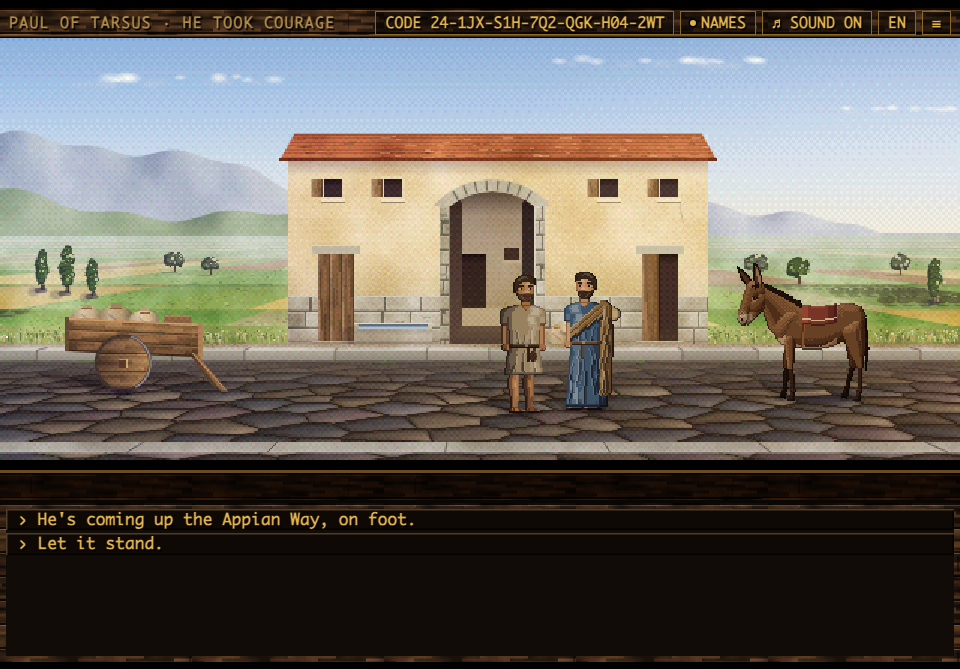
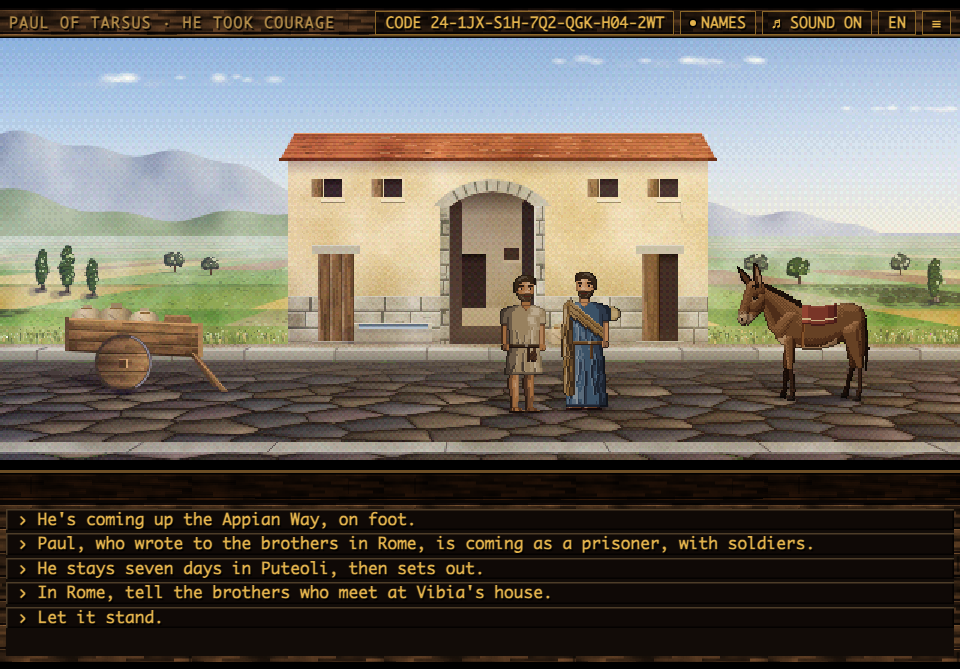
Chapter Twenty-Four: the news is said back whole, and the player picks the part to say again
The receiver says all four parts back, then one choice: let it all stand, or one part to say again. A part
that was right gets "That's what I said" and leaves the choice; letting the slip stand makes the giver say
"Wait. One thing again." and the choice comes back without letting it stand. Before, every choice led to
the same end, because the giver set the slip right by himself.

Changed region(s): [[0.0, 0.8072, 0.875, 0.9567], [0.5625, 0.4484, 0.6562, 0.5979]]

diff --git a/tools/playtest-harness.html b/tools/playtest-harness.html
@@ -6527,7 +6527,7 @@
      once, with the story's flags set for it, and say its safe-point code (CODE): pscroll24 · pquay24 · pcourt24 · pcapua24 · pcanal24 (the
      treasure's point) · pdawn24 · pstones24 · prome24 · pboard24 · phills24 · pmarsh24 · pmarsh24b · pmeet24 · ptaverns24 · pfar24 · pcapena24
      · pcamp24 · plane24 · pflat24 · pstreet24 · pgarret24 · psmall24; and three that go one step further, for the pictures of the
-     chapter's page: prelay24 (the carter has given the message, the trader has said its first two parts back, and the choice stands),
+     chapter's page: prelay24 (the carter has given the message, the trader has said all four parts back, and the choice stands),
      ppegs24 (four pegs on the board, Vibia's in hand) and pcall24 (the road in the hills, the soldier's call standing for a long pause).
      The timed walk, driven by the beat's exposed phase: beatwalk24 (a hit,
      a miss with no line, the call after three, the carry after six, a stretch walked to its stone) and phonewalk24 (the same tapped on a phone
@@ -6563,8 +6563,8 @@
        the soldier, at the game's pace, for a long pause (a step that takes no time) */
     const choices24=async()=>{for(let i=0;i<600&&!$('#choices').classList.contains('on');i++){if(G.skip)G.skip();await wait(40)}await wait(200)};
     if(stop==='prelay24'){const TR=ACT.trader24;verb('talk');clickView(TR.x,TR.y-10,TR.hs);await choices24();
-      const b=[...document.querySelectorAll('#choices button')].find(x=>x.dataset.src==='let_it_stand');if(!b)throw new Error('no choice let_it_stand');b.click();
-      await wait(300);await choices24();ok($('#choices').classList.contains('on')&&[...document.querySelectorAll('#choices button')].some(x=>x.dataset.src===CHAP[24].msg[1]),'the trader has said the road back, and the choice stands: let it stand, or say it again')}
+      const bs=[...document.querySelectorAll('#choices button')].map(x=>x.dataset.src);
+      ok(bs.length===5&&bs.includes('let_it_stand')&&CHAP[24].msg.every(k=>bs.includes(k)),'the trader has said all four parts back, and the choice stands: let it all stand, or say one part again')}
     if(stop==='ppegs24'){G.tok24={sextus24:'M',mikon24:'M',postumus24:'T',thallos24:'T'};G.sel24='vibia24';await wait(300)}
     if(stop==='pcall24'){for(let i=0;i<300&&!G.beat;i++)await wait(20);const k=SHARED.beat.start(Object.assign({sticky:true,room:'hills24',sound:false},CHAP[24].beat,{pause:2600,at:.1,need:0,phase:.11}));
       k.st24='s1';k.misses=3;k.help=1;for(let i=0;i<200&&!k.calling();i++)await wait(20);ok(k.calling(),'the soldier calls the step while his foot is up')}
@@ -6658,21 +6658,24 @@
   ok(ROADS24.join()==='malta-syracuse,syracuse-rhegium,rhegium-puteoli','the sea on the map: Malta, Syracuse, Rhegium, Puteoli');
   halt('court24');
   await hints('hint_the_news_for_rome_1','hint_the_news_for_rome_2','at Puteoli');
-  /* the news goes ahead: Luke to the carter. A harmless change set right: "That's what I said"; the day set right */
-  heard.length=0;talkTo(CA);{const o=await asked();ok(MSG.every(k=>said(k))&&said('let_me_say_it_back')&&said(H[0].say[0])&&o.length===2&&o.includes('let_it_stand')&&o.includes(MSG[0]),
-      'Luke gives the four parts; the carter says the first back in his own words; let it stand, or say it again (every correction on offer is the part itself, and true)')}
-  await line(MSG[0]);ok(said('thats_what_i_said'),'a harmless change set right: that\'s what I said');
-  await line('let_it_stand');ok(said(H[0].say[2]),'the carter: seven weeks in Puteoli');await line('let_it_stand');await line('let_it_stand');
+  /* the news goes ahead: Luke to the carter. A harmless change set right: "That's what I said"; the slip let stand: "Wait. One thing
+     again.", and the choice comes back without "let it stand"; the day set right */
+  heard.length=0;talkTo(CA);{const o=await asked();ok(MSG.every(k=>said(k))&&said('let_me_say_it_back')&&H[0].say.every(k=>said(k))&&o.length===5&&o.includes('let_it_stand')&&MSG.every(k=>o.includes(k)),
+      'Luke gives the four parts; the carter says all four back in his own words (seven weeks in Puteoli); then one choice: let it all stand, or say one part again (every correction on offer is the part itself, and true)')}
+  await line(MSG[0]);{const o=await asked();ok(said('thats_what_i_said')&&o.length===4&&!o.includes(MSG[0])&&o.includes('let_it_stand'),'a harmless change set right: that\'s what I said, and that part leaves the choice')}
+  heard.length=0;await line('let_it_stand');{const o=await asked();ok(said('wait_one_thing_again')&&!F.given1&&o.length===3&&[1,2,3].every(i=>o.includes(MSG[i])),
+      'the slip let stand: Luke stops him (wait, one thing again), and the choice comes back with the parts not yet said, without let it stand')}
+  await line(MSG[1]);ok(said('thats_what_i_said')&&!F.given1,'another harmless part: that\'s what I said');
+  await line(MSG[2]);
   await until(()=>G.room==='capua24'&&!G.busy,9000);
-  ok(F.given1&&said('wait_one_thing_again')&&said(H[0].fix)&&PC()===CA&&CA.noPray&&said('carter_capua_who_goes_on_to_the_coast'),
-    'the day let stand ("weeks"): Luke notices as the carter turns to go, and says it once more; the carter has it right. Capua: the carter is played, and he does not worship Jehovah');
+  ok(F.given1&&said(H[0].fix)&&PC()===CA&&CA.noPray&&said('carter_capua_who_goes_on_to_the_coast'),
+    'the day said again: the carter has it right. Capua: the carter is played, and he does not worship Jehovah');
   ok(ART.capua24.light.sun,'the station by Capua in the afternoon light');
   halt('capua24');
   await thinks('think_the_trader_1','think_the_trader_2','at Capua');
-  /* the carter to the trader: the road set right; every other change let stand */
-  heard.length=0;talkTo(TR);await line('let_it_stand');
+  /* the carter to the trader: the road set right at once */
+  heard.length=0;talkTo(TR);await asked();
   ok(said(H[1].say[1]),'the trader: by sea, to Ostia');await line(MSG[1]);ok(said(H[1].fix),'the road set right: on foot, up the Appian Way');
-  await line('let_it_stand');await line('let_it_stand');
   await until(()=>G.room==='canal24'&&!G.busy,9000);
   ok(F.given2&&!said('wait_one_thing_again')&&PC()===TR&&TR.noPray&&!ROOMS.canal24.birds&&!ART.canal24.light.sun,'set right in time, nobody has to call him back. The canal at dusk: the trader is played; no birds, no sun');
   await code('by the canal at dusk',()=>G.room==='canal24'&&PC()===TR&&F.given2&&!F.given3&&!P.room);
@@ -6683,14 +6686,14 @@
   heard.length=0;talkTo(BO);{const o=await asked();ok(o.join()==='trader_i_have_a_message_for_rome,never_mind','and only once: asked, the question leaves the menu')}await line('never_mind');
   {const was=JSON.stringify([F,G.invs]),cd=makeCode();heard.length=0;await onH('reeds','use');
     ok(said('trader_the_whole_marsh_sings')&&G.frogs24&&treasures().has(24)&&JSON.stringify([F,G.invs])===was&&makeCode()===cd,'the reeds touched: the frogs croak the chapter\'s tune, the reeds stir and rings spread (the hidden treasure); nothing has changed ('+cd+')')}
-  heard.length=0;talkTo(BO);await line('trader_i_have_a_message_for_rome');for(let i=0;i<3;i++)await line('let_it_stand');
+  heard.length=0;talkTo(BO);await line('trader_i_have_a_message_for_rome');await asked();
   ok(said(H[2].say[3]),'the boatman: Fabia\'s house');await line(MSG[3]);ok(said(H[2].fix),'the name set right: Vibia');
   await until(()=>G.room==='appius24'&&!G.busy,9000);
   ok(F.given3&&PC()===BO&&ART.appius24.variant()==='dawn'&&DE.room==='appius24','the Marketplace of Appius at daybreak: the boatman is played; a young carrier is loading for Rome');
   halt('dawn24');
   await thinks('think_the_young_man_1','think_the_young_man_2','at daybreak');
   /* the boatman to Sextus, who gets it all right in his own words: every correction is answered kindly and changes nothing */
-  heard.length=0;talkTo(DE);await line(MSG[0]);ok(said('thats_what_i_said'),'a correction of nothing: that\'s what I said');for(let i=1;i<4;i++)await line('let_it_stand');
+  heard.length=0;talkTo(DE);await line(MSG[0]);ok(said('thats_what_i_said'),'a correction of nothing: that\'s what I said');await line('let_it_stand');
   await until(()=>PC()===DE&&!G.busy,6000);
   ok(F.given4&&!said('wait_one_thing_again')&&said('sextus_how_far_is_it_really')&&$('#pray').dataset.k==='pray_to_jehovah','Sextus has it right; he is played now, and he prays');
   heard.length=0;await onH('road_north','walk');ok(said('sextus_first_what_the_stone_says')&&G.room==='appius24','first the stone');

diff --git a/levels/chapter24.js b/levels/chapter24.js
@@ -1686,19 +1686,23 @@ async function board24(){if(F.sailed)return;if(written24()<3)return think('luke_
   codeBtn()}
 
 /* ---- the news goes ahead: one hand-over ---- */
-/* relay24(n): the giver tells the four parts, the receiver says them back one by one, and the player lets each stand or says it again */
+/* relay24(n): the giver tells the four parts, the receiver says all four back, and the player picks the part to say again, or lets it all
+   stand. A part that was right gets "That's what I said" and leaves the choice; letting a slip stand makes the giver stop him ("Wait. One
+   thing again.") and the choice comes back without "let it stand", so the slip is found by listening and nobody can get stuck */
 async function relay24(n){const H=HAND24[n],gv=ACT[H.giver],rc=ACT[H.to];if(F['given'+(n+1)])return spoke(rc,H.off);
   for(const k of MSG24)await say(gv,k,{to:rc});
   await say(rc,'let_me_say_it_back',{to:gv});
-  let left=H.slip;
-  for(let i=0;i<4;i++){await say(rc,H.say[i],{to:gv});
-    const c=await choose(['let_it_stand',MSG24[i]]);
-    if(c===0)continue;
+  for(let i=0;i<4;i++)await say(rc,H.say[i],{to:gv});
+  let left=[0,1,2,3],stand=1;
+  for(;;){const opts=(stand?['let_it_stand']:[]).concat(left.map(i=>MSG24[i]));
+    const c=await choose(opts);
+    if(stand&&c===0){if(H.slip<0)break;
+      stand=0;await say(gv,'wait_one_thing_again',{to:rc});continue}
+    const i=left[c-stand];left=left.filter(j=>j!==i);
     await say(gv,MSG24[i],{to:rc});
-    if(i===H.slip){left=-1;await say(rc,H.fix,{to:gv})}else await say(rc,'thats_what_i_said',{to:gv})}
-  /* he turns to go; if the wrong thing was let stand, the giver notices and says that part once more */
+    if(i===H.slip){await say(rc,H.fix,{to:gv});break}
+    await say(rc,'thats_what_i_said',{to:gv})}
   rc.dir=-rc.dir;
-  if(left>=0){await tw(300);await say(gv,'wait_one_thing_again',{to:rc});rc.dir=-rc.dir;await say(gv,MSG24[left],{to:rc});await say(rc,H.fix,{to:gv})}
   F['given'+(n+1)]=1;SFX.good();
   return[afterCourt24,afterCapua24,afterCanal24,afterAppius24][n]()}
 async function afterCourt24(){await say(CA,'carter_ill_tell_the_first_traveler',{to:LK});await go24(CA,COURT24.gate[0]+16,116,50);CA.room=null;

diff --git a/docs/chapter-24.md b/docs/chapter-24.md
@@ -11,12 +11,12 @@ Fifteen places, one of them a close view, with the travel map, and six people pl
 
 **What an eyewitness sees.** The chapter opens on the narrator's scroll: 28:11 is told in the same words as at the end of Chapter Twenty-Three, and then the figurehead in a line of its own. Then a harbor of Malta on a spring morning, with the ship from Alexandria along the quay, and Luke is played, his wax tablet at his belt. He wants to set down what he sees. **Talk to** the sailor coiling a rope: Luke can ask where she is from, whether she has been here long, and what is on her bow. The sailor names the twins, the Sons of Zeus, and says that sailors trust them to keep a ship safe; Luke thinks of what the Lord told Paul in Jerusalem (Acts 23:11, in Chapter Nineteen's words), and that he and Paul serve Jehovah. What he has heard he writes by using his tablet on the sailor, and the sign by using it on the ship once he knows what it is. Not before all three are written does he go up the gangplank. Then the travel map draws the sea legs, Malta to Syracuse, Rhegium and Puteoli, while 28:12 and 28:13 are told.
 
-**The news goes ahead.** At Puteoli, in the court of the house of Herennius, where the brothers meet, the narrator tells that they came upon brothers and were urged to stay seven days. How they were found and how the week was granted is said in two lines of Luke's: a man who works on the docks brought them, and Julius let them stay; after the sea, Luke thinks, he trusts Paul. The brothers in Rome should know that Paul is coming, and no post carries a word like that, so travelers will have to. The message has four parts, each one short sentence: Paul, who wrote to the brothers in Rome, is coming as a prisoner with soldiers; he is coming up the Appian Way, on foot; he stays seven days in Puteoli and then sets out; and in Rome it is for the brothers who meet at Vibia's house. It goes from mouth to mouth in four hand-overs, and each time the one who gives it is played: Luke to Ovius, who drives his cart to Capua; at a station by Capua, Ovius to Melanthios, who rides north; by the canal in the marshes at dusk, Melanthios to Varro, who takes his barge up by night; and at the Marketplace of Appius at daybreak, Varro to Sextus, who carries goods between the barges and Rome. The one who receives it says it back in his own words, a sentence at a time, and after each the player lets it stand or says that part again. Most of what he changes does not matter, and setting it right only gets a kind "That's what I said". One thing each time does matter: seven weeks for seven days, by sea to Ostia for on foot up the Appian Way, Fabia's house for Vibia's. Sextus gets all of it right. A wrong thing let stand is noticed by the giver as the other turns to go, and he says that part once more, so nobody can get stuck and the message reaches Rome whole. Every correction on offer is the true part itself, and the slips are the same in English and German.
+**The news goes ahead.** At Puteoli, in the court of the house of Herennius, where the brothers meet, the narrator tells that they came upon brothers and were urged to stay seven days. How they were found and how the week was granted is said in two lines of Luke's: a man who works on the docks brought them, and Julius let them stay; after the sea, Luke thinks, he trusts Paul. The brothers in Rome should know that Paul is coming, and no post carries a word like that, so travelers will have to. The message has four parts, each one short sentence: Paul, who wrote to the brothers in Rome, is coming as a prisoner with soldiers; he is coming up the Appian Way, on foot; he stays seven days in Puteoli and then sets out; and in Rome it is for the brothers who meet at Vibia's house. It goes from mouth to mouth in four hand-overs, and each time the one who gives it is played: Luke to Ovius, who drives his cart to Capua; at a station by Capua, Ovius to Melanthios, who rides north; by the canal in the marshes at dusk, Melanthios to Varro, who takes his barge up by night; and at the Marketplace of Appius at daybreak, Varro to Sextus, who carries goods between the barges and Rome. The one who receives it says all four parts back in his own words, and then the player makes one choice: let it all stand, or say one part again. Most of what he changes does not matter, and saying such a part again only gets a kind "That's what I said", and that part leaves the choice. One thing each time does matter: seven weeks for seven days, by sea to Ostia for on foot up the Appian Way, Fabia's house for Vibia's, and the player has to hear which. Sextus gets all of it right. If the player lets it all stand while one thing is wrong, the giver stops him: "Wait. One thing again." The choice comes back without letting it stand, so the wrong thing is found by listening, nobody can get stuck, and the message reaches Rome whole. Every correction on offer is the true part itself, and the slips are the same in English and German.
 
 | | |
 |---|---|
-| ![A station by Capua: Melanthios the trader says the message back, and the choice between letting it stand and saying it again](screenshots/relay24.png) | ![The canal in the Pontine Marshes at dusk: the barge at the towpath, the mule ahead of it, the reeds at the water's edge](screenshots/canal24.png) |
-| Said back: let it stand, or say that part again | The canal at dusk, where the boatmen go north by night |
+| ![A station by Capua: Melanthios the trader has said the message back, and the choice between letting it all stand and saying one part again](screenshots/relay24.png) | ![The canal in the Pontine Marshes at dusk: the barge at the towpath, the mule ahead of it, the reeds at the water's edge](screenshots/canal24.png) |
+| Said back: let it all stand, or say one part again | The canal at dusk, where the boatmen go north by night |
 
 **The stones.** At the Marketplace of Appius at daybreak Sextus has the message, and he is played. He passes the milestones every week and has never learned to read them: the one here reads XLIII. **Talk to** Varro, and he teaches him the letters: I is one, V five, X ten and L fifty, a smaller letter after a bigger one adds to it and one before it takes away, so XL is forty and XLIII forty-three miles to Rome. The numbers are needed twice more: on the board in Rome, and on the walk.
 
@@ -73,10 +73,10 @@ Fifteen places, one of them a close view, with the travel map, and six people pl
 1. On the quay of Malta, as Luke, **Talk to** the sailor and ask all three questions: where she is from, whether she has been here long, and what is on her bow. Then "Thanks. That's all."
 2. **Use** Luke's tablet with the sailor (from Alexandria, wintered here), then **Use** Luke's tablet with the ship (her sign).
 3. **Use** the gangplank.
-4. At Puteoli, **Talk to** Ovius the carter. After each sentence he says back, choose **Let it stand**, except after "Seven weeks in Puteoli": there choose "He stays seven days in Puteoli, then sets out."
-5. At Capua, as Ovius, **Talk to** Melanthios the trader. Let everything stand except "He's coming by sea, to Ostia": there choose "He's coming up the Appian Way, on foot."
-6. By the canal, as Melanthios, **Talk to** Varro the boatman and choose "I have a message for Rome." Let everything stand except "the brothers at Fabia's house": there choose "In Rome, tell the brothers who meet at Vibia's house."
-7. At the Marketplace at daybreak, as Varro, **Talk to** Sextus and let every sentence stand: he has it right.
+4. At Puteoli, **Talk to** Ovius the carter. He says the message back with "seven weeks in Puteoli": choose "He stays seven days in Puteoli, then sets out."
+5. At Capua, as Ovius, **Talk to** Melanthios the trader. He says "He's coming by sea, to Ostia": choose "He's coming up the Appian Way, on foot."
+6. By the canal, as Melanthios, **Talk to** Varro the boatman and choose "I have a message for Rome." He says "the brothers at Fabia's house": choose "In Rome, tell the brothers who meet at Vibia's house."
+7. At the Marketplace at daybreak, as Varro, **Talk to** Sextus and choose **Let it stand**: he has it all right.
 8. As Sextus, **Look at** the milestone, then **Talk to** Varro to learn the letters. Then walk to the road north at the right.
 9. In Vibia's house, **Use** the board. Click a peg, then a place: Sextus, Mikon, Vibia and Aemilia at the Marketplace of Appius (XLIII); Postumus, Firmus and Thallos at Three Taverns (XXXIII). (**Talk to** each of them first to hear why.)
 10. On the road, as Paul, click the road ahead while the soldier's foot is up, four times in each of the three stretches.

diff --git a/docs/how-to-play.md b/docs/how-to-play.md
@@ -48,7 +48,7 @@
 | Read a sounding | In Chapter Twenty-Three the sounding line is laid out on the deck in a close view. A tag hangs at every fifth fathom with a Greek number letter (**Look at** it to read it); **Use** the tag where the wet part of the line ends to write the depth, **Look at** the lead to see what its tallow brought up, and **Use** the lead to write that down. |
 | Give each a float | On the wreck of Chapter Twenty-Three, the planks and the hatch cover are a close view with the four who cannot swim. Click a person, then the plank or the hatch cover he is to take; click him again to take him off it. A pairing that will not do is refused with its reason, and more than one answer is right. |
 | Answer with a picture | The islander of Chapter Twenty-Three speaks a language Luke does not know, so the choices are pictures: square buttons above a line that only waits. Point at a picture to read what it means on the status line, and click it to answer. The pictures stand in the same order in every language. |
-| Pass the news on | In Chapter Twenty-Four a message for the brothers in Rome goes from mouth to mouth in four parts: who is coming, by which road, when, and whom to tell. **Talk to** the one who is to carry it on: you give him the four parts, and he says them back in his own words, one at a time. After each, choose **Let it stand**, or say that part again. Most of what he changes does not matter, and setting it right only gets "That's what I said"; one thing each time changes the meaning, and that is the part to say again. Let it stand, and the one who gave it notices as the other turns to go and says it once more, so nobody can get stuck. Every correction on offer is the true part itself. |
+| Pass the news on | In Chapter Twenty-Four a message for the brothers in Rome goes from mouth to mouth in four parts: who is coming, by which road, when, and whom to tell. **Talk to** the one who is to carry it on: you give him the four parts, and he says them all back in his own words. Then choose **Let it stand**, or the part to say again. Most of what he changes does not matter, and saying such a part again only gets "That's what I said"; one thing each time changes the meaning, and that is the part to say again. Let it stand while something is wrong, and the one who gave it stops him ("Wait. One thing again.") and asks you which part, so nobody can get stuck. Every correction on offer is the true part itself. |
 | Read a milestone | The milestones of the Appian Way give the miles to Rome in Roman number letters: I is one, V five, X ten and L fifty. A smaller letter after a bigger one adds to it, and one before a bigger one takes away, so XLIII is forty-three. **Look at** a stone to read it; the first one is read with help. |
 | Set people on the board | In Vibia's house in Chapter Twenty-Four the road to Rome is scratched on a board, with Three Taverns at the stone XXXIII and the Marketplace of Appius at XLIII. Click a peg, then a place, to set someone there; a peg already set can be picked up and set again. Everyone has said one true thing about himself (**Talk to** them, or **Look at** a peg). When all seven are set, the first one whose word is broken says so, and his peg comes back. |
 | Keep step | On the Appian Way Paul walks beside a soldier, at the soldiers' pace. The soldier's foot comes down about every three seconds, and is up for a little over a second in between: **Use** the road ahead (a click on it does) while his foot is up, and Paul and the column take the next step. A click while his foot is down, or too late in the pause for the step, is a miss: it costs only that step, and nothing is said. After three misses the soldier calls **Now!** while his foot is up, and after three more he brings Paul along with every step to the end of that stretch. Foot and footfall go by one clock, so the picture alone keeps the time with the sound off, and a tap is as good as a click. From the meeting at the Marketplace of Appius on, the step no longer has to be kept. |
@@ -94,7 +94,7 @@
 
 | | |
 |---|---|
-| ![The road to Rome in Chapter Twenty-Four: the column in step, and Now! over the soldier](screenshots/walk24.png) | ![A station by Capua in Chapter Twenty-Four: the trader says the message back, and the choice between letting it stand and saying it again](screenshots/relay24.png) |
+| ![The road to Rome in Chapter Twenty-Four: the column in step, and Now! over the soldier](screenshots/walk24.png) | ![A station by Capua in Chapter Twenty-Four: the trader has said the message back, and the choice between letting it all stand and saying one part again](screenshots/relay24.png) |
 | Keeping step: after three misses the soldier calls it | Passing the news on |
 | ![The lodging in Chapter Twenty-Five: Paul asks the soldier to sit elsewhere](screenshots/ask25.png) | ![The three letters on the table in Chapter Twenty-Five: a sheet and two rolls](screenshots/three25.png) |
 | Asking the soldier to move, with the reason | Three letters, each for the man who carries it |
